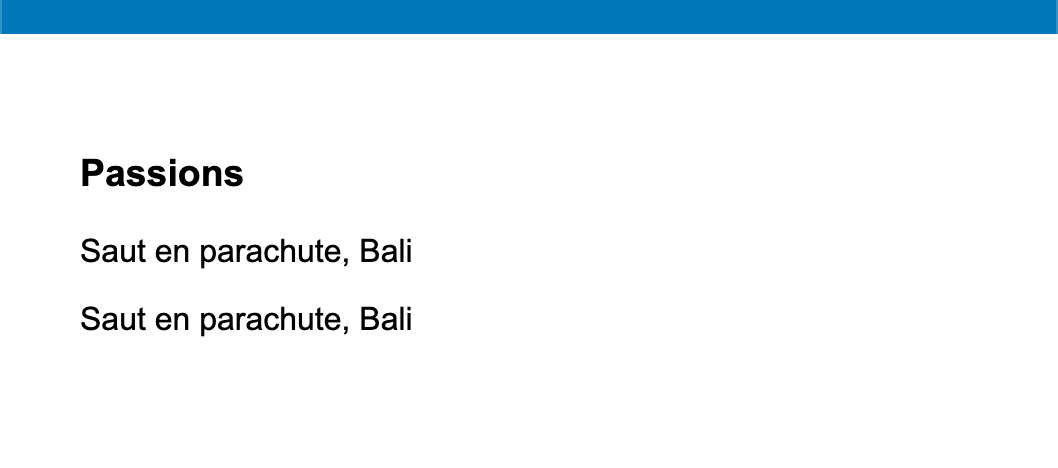
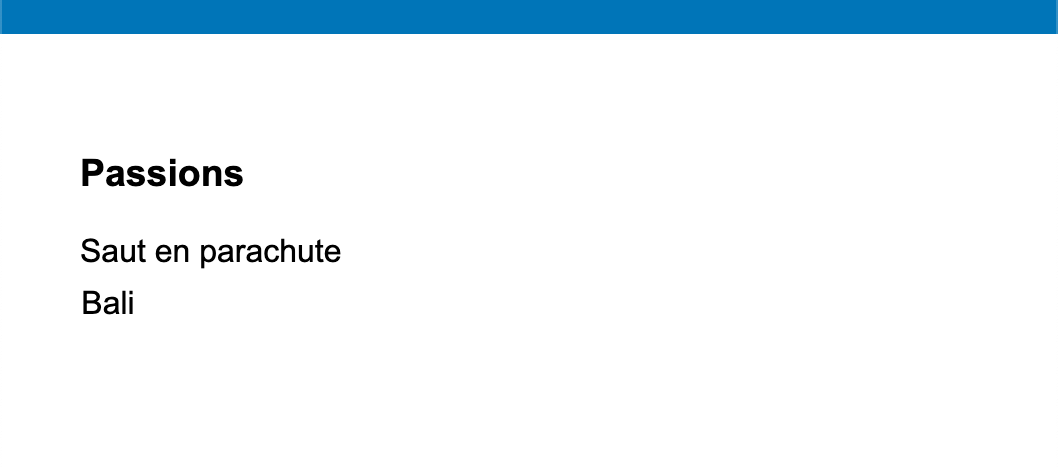
(project) Update instructions for steps 13-14

Changed region(s): [[0.0624, 0.5983, 0.4055, 0.7179], [0.3119, 0.5085, 0.4055, 0.5684]]

diff --git a/session5-projet/readme.md b/session5-projet/readme.md
@@ -461,26 +461,25 @@ Avant de passer à l'étape suivante, vérifiez que la page ressemble à l'image
 
 </details>
 
-# Etape 13 - Formations HTML et CSS
+## Étape 13 - Formations
 
-La présentation entre la section _Expériences_ et _Formations_ est très similaire.
+**La présentation entre la section _Expériences_ et _Formations_ est très similaire.**
 
-### HTML
+### HTML pour la section _Formations_
 
-Sans instructions précises et en suivant les bases que vous avez déjà utilisé, reproduire la structure HTML qui ressemblera à cette image.
+Sans instructions précises et en vous inspirant du code que vous avez déjà produit, écrivez la structure HTML qui ressemblera à l'image ci-dessous.
 
-![formation](./assets/etape_formations.png)
+![Formations](./assets/etape_formations.png)
 
-### CSS
+### CSS pour la section _Formations_
 
-Sans instructions précises et en suivant les bases que vous avez déjà utilisé, reproduire les sélecteurs CSS qui mettront le style correspondant à cette image.
+Sans instructions précises et en vous inspirant du code que vous avez déjà produit, écrivez les règles CSS qui appliqueront le style correspondant à l'image ci-dessous.
 
-![formation](./assets/etape_formations_css.png)
+![Formations avec CSS](./assets/etape_formations_css.png)
 
-## Vérification
+### Vérification - Étape 13
 
-Avant de passer à l'étape suivante, vérifier que la page ressemble à l'image.
-Si non, appeler un assistant et/ou regarder la solution pour vous aider.
+Avant de passer à l'étape suivante, vérifiez que la page ressemble à l'image ci-dessus. Si non, appelez un assistant ou regardez la solution pour vous aider.
 
 <details>
     <summary>👀 Solution</summary>
@@ -509,9 +508,11 @@ Si non, appeler un assistant et/ou regarder la solution pour vous aider.
   padding: 0;
   margin: 0;
 }
+
 #education li {
   margin-bottom: 10px;
 }
+
 #education aside {
   float: right;
 }
@@ -519,23 +520,21 @@ Si non, appeler un assistant et/ou regarder la solution pour vous aider.
 
 </details>
 
-# Etape 14 - Passions
+## Étape 14 - Passions
 
-Dans le fichier `index.html`
+Dans le fichier `index.html` :
 
-- Créer une `section` et une `div` de classe `content` à l'intérieur
+- Écrire une balise `<section>` avec un `<div>` de classe `content` à l'intérieur.
+- À l'intérieur de ce `<div>`, écrire les balises suivantes :
+  - Un `<h3>` avec le texte `Passions`.
+  - Un `<p>` avec le texte `Saut en parachute`.
+  - Un `<p>` avec le texte `Bali`.
 
-A l'intérieur de la `div.content`, créer les balises suivantes :
+Vous n'avez pas besoin d'ajouter du CSS pour cette étape car le style écrit avant s'applique ici par effet de cascade.
 
-- `h3` avec le texte _Passions_
-- `p` avec le texte `Saut en parachute`
-- `p` avec le texte `Bali`
+![Passions](./assets/etape_passions.png)
 
-Normalement, vous n'aurez pas besoin de CSS puisque le style en cascade s'applique à tous les éléments en cours.
-
-![formation](./assets/etape_passions.png)
-
-## Vérification
+### Vérification - Étape 14
 
 Avant de passer à l'étape suivante, vérifier que la page ressemble à l'image.
 Si non, appeler un assistant et/ou regarder la solution pour vous aider.
